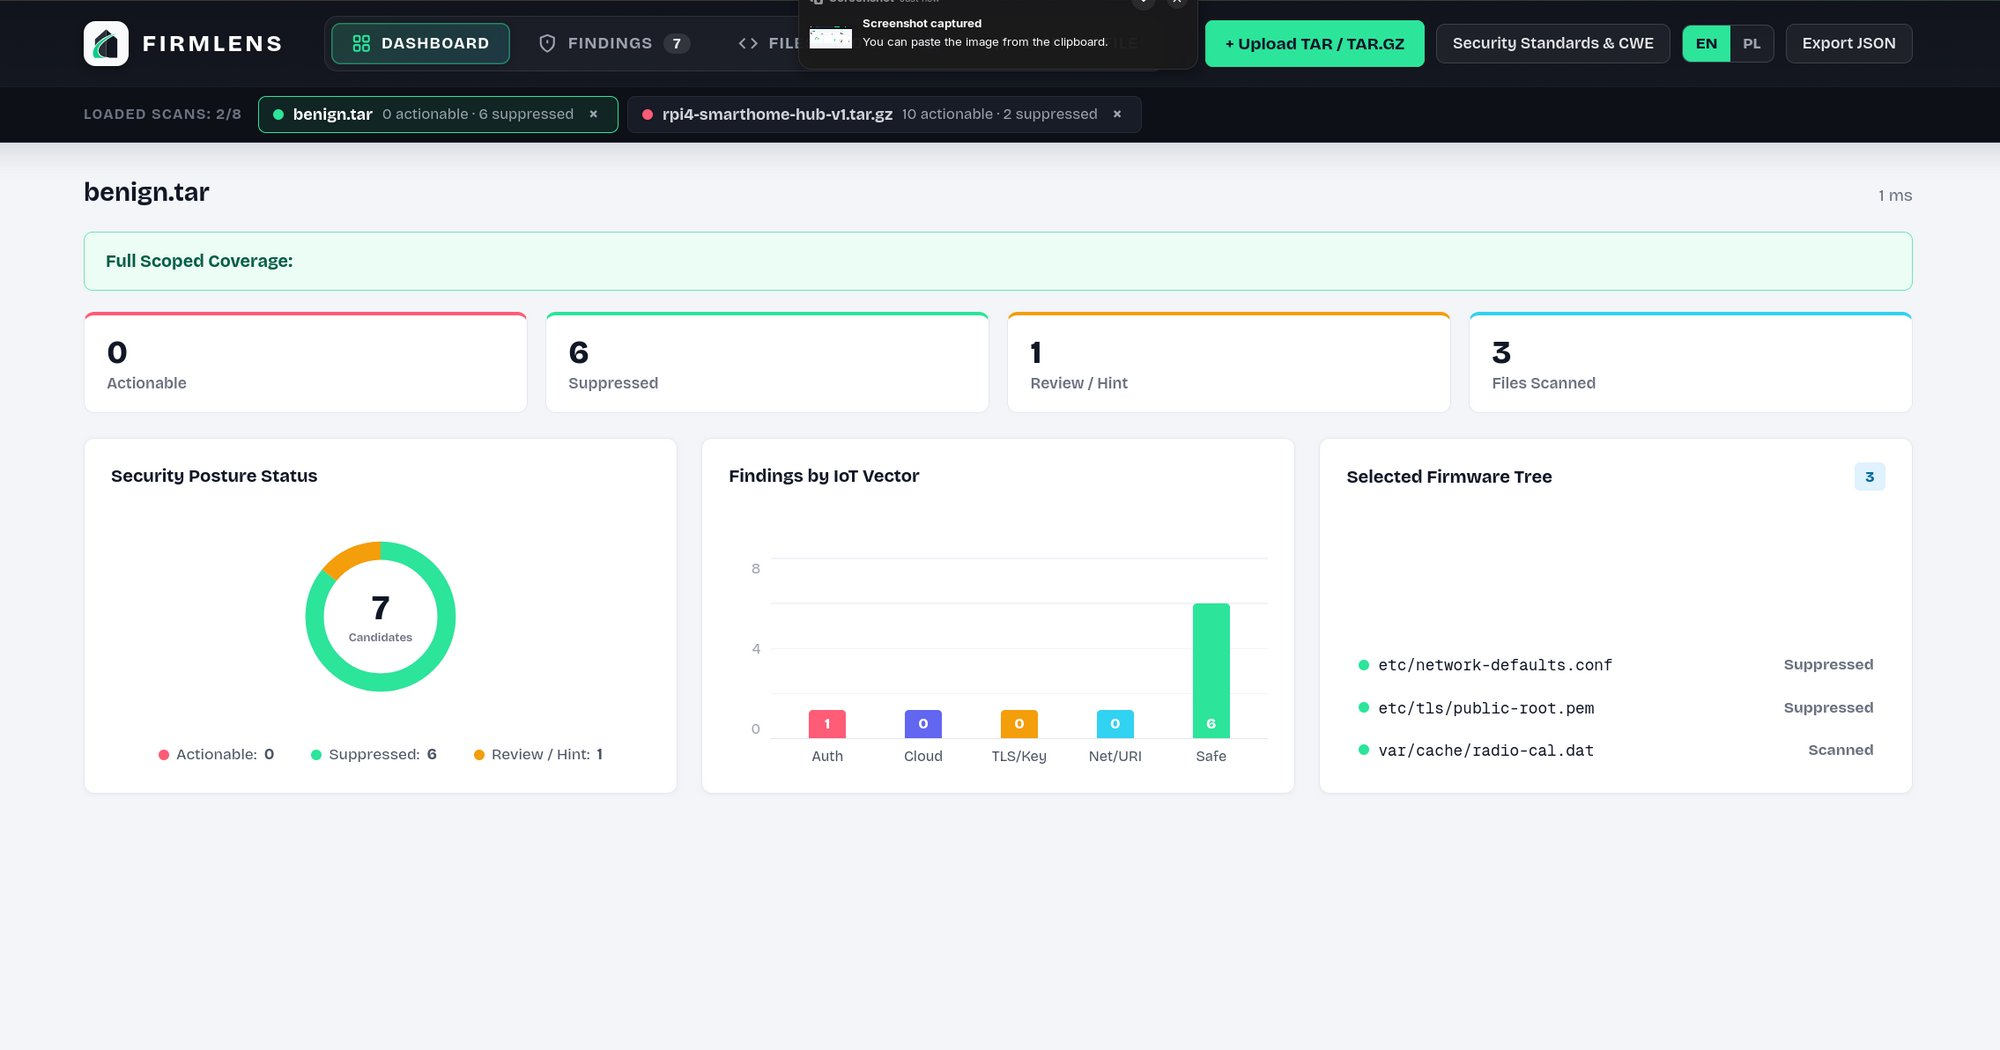
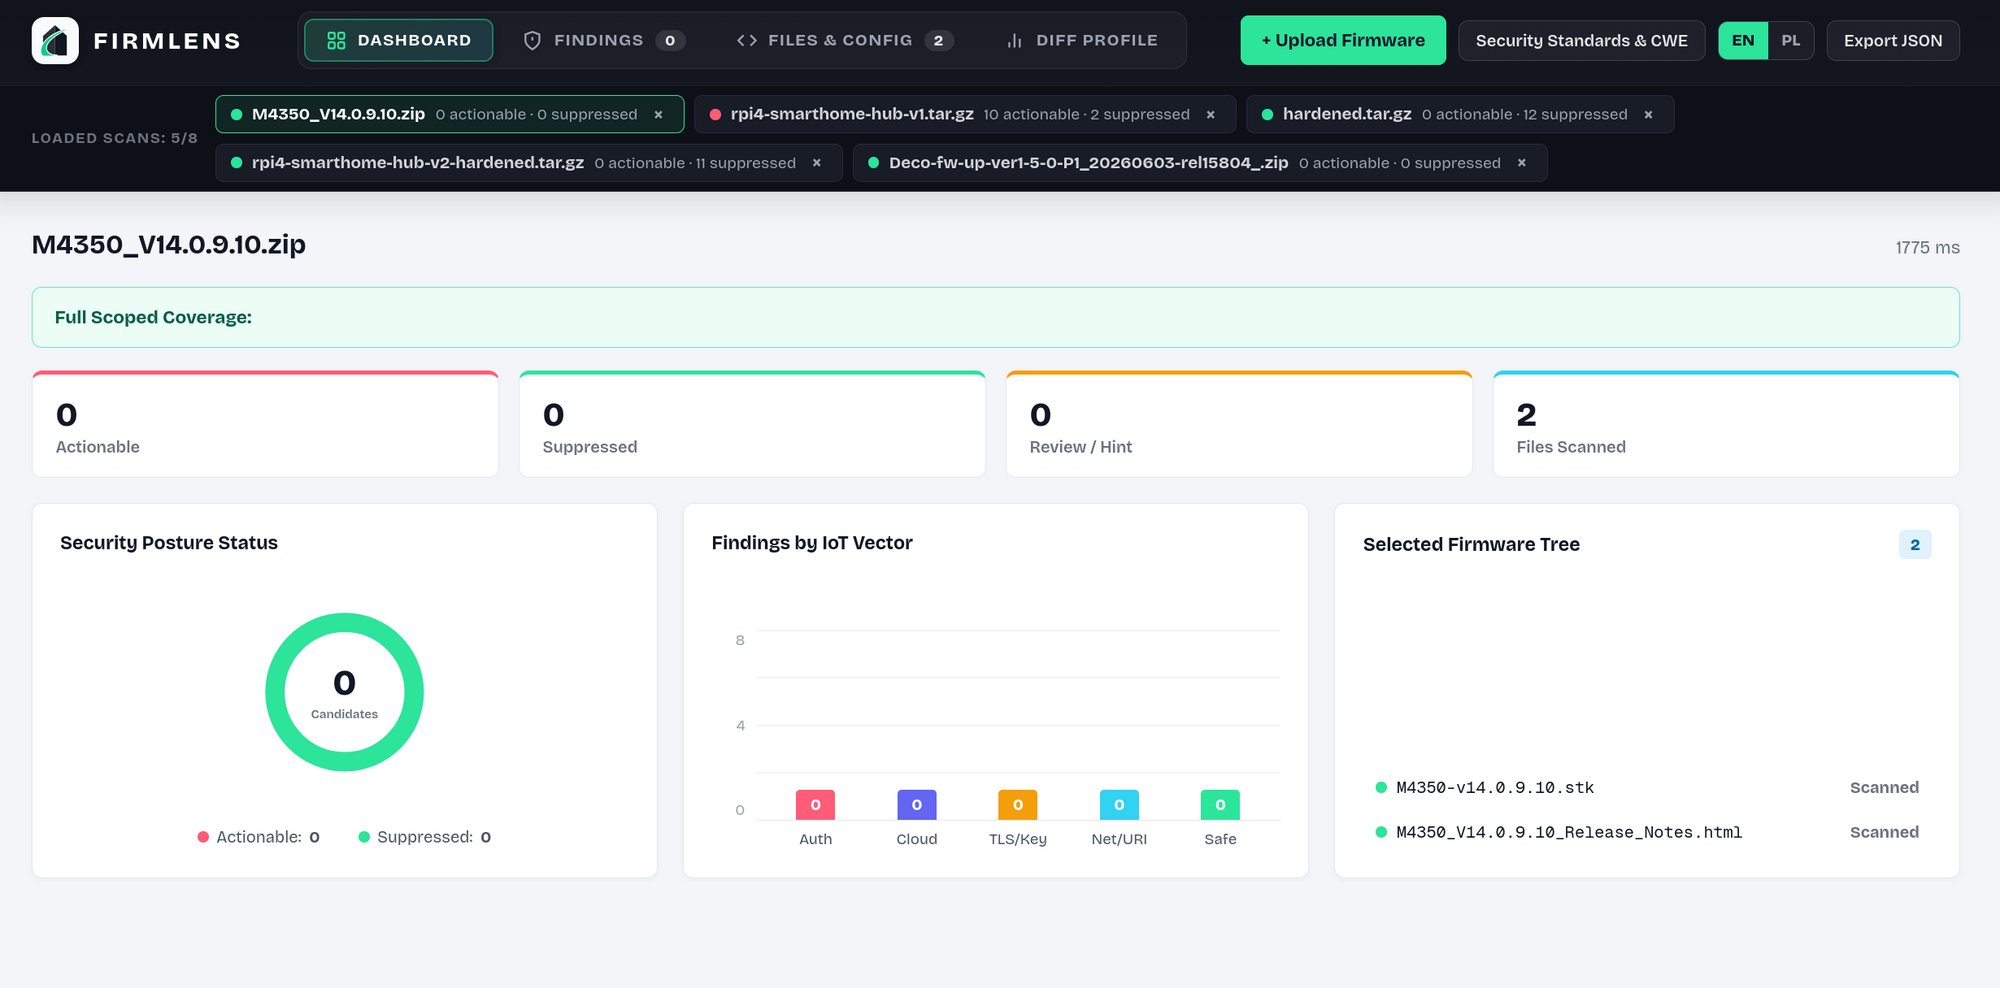
Update README application preview screenshot

diff --git a/README.md b/README.md
@@ -31,7 +31,7 @@ Built as an MSc cybersecurity research platform, FirmLens combines an independen
 ## Application Preview
 
 <p align="center">
-  <img src="docs/assets/dashboard-preview.svg" alt="FirmLens Web Dashboard Screenshot" width="100%" />
+  <img src="docs/assets/dashboard-preview.jpg" alt="FirmLens Web Dashboard Screenshot" width="100%" />
 </p>
 
 * **Top Command Deck & Mouse 4/5 Navigation:** Full-width navigation dock (`Dashboard`, `Findings`, `Files & Config`, `Version Diff`) synchronized with browser history (`Back` / `Forward`).
